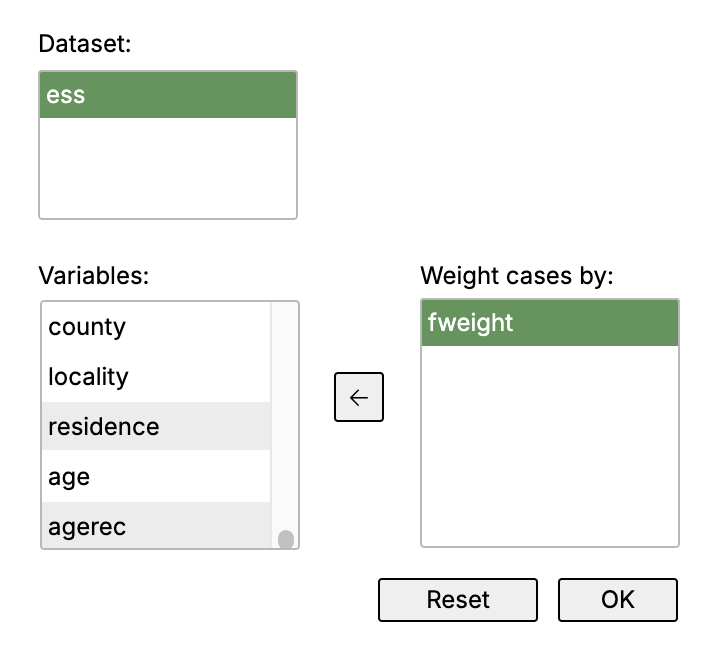
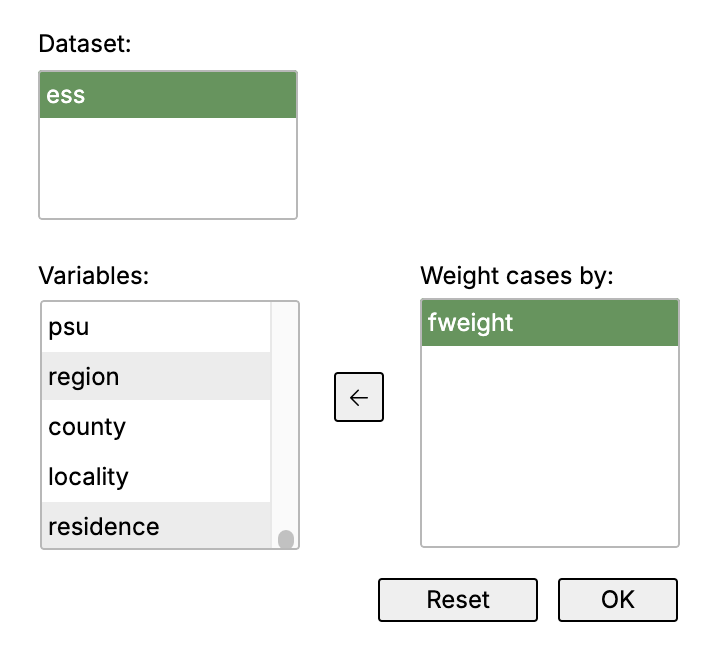
use canonical RODA ESS dataset in website examples

diff --git a/docs/usermanual.html b/docs/usermanual.html
@@ -49,7 +49,7 @@
         <figcaption><span>Figure 1</span> ESS political interest: the dataset and variable are selected, with Variable label enabled. Click Run. <a href="images/manual/frequencies.png" data-enlarge>Enlarge screenshot</a></figcaption>
     </figure>
 
-    <div class="callout"><p><strong>The dataset used in this guide.</strong> Screenshots use a prepared English-labelled <strong>European Social Survey Round 9 dataset for Romania</strong>, imported as <strong>ess</strong>. It contains 1,846 cases and 345 variables. The analysis variables retain their <strong>declared</strong> classes, labels, and missing-value definitions.</p><p>Use this prepared dataset if supplied with your course. You can also obtain data from the <a href="https://ess.sikt.no/">ESS Data Portal</a>; an original ESS download may have different variable names. The guide uses the prefixes in the prepared dataset, such as B1_polintr.</p></div><ol class="steps"><li><strong>Start DialogR.</strong> Complete <a href="#packages">desktop setup</a>, or wait for WebR to load.</li><li><strong>Choose File → Import data.</strong> Choose the European Social Survey Round 9 dataset for Romania, enter <strong>ess</strong> in <strong>Assign to</strong>, and click <strong>Import</strong>.</li><li><strong>Open the dataset editor.</strong> Explore the Data and Variables tabs. Keep the labels and missing-value definitions supplied with the file.</li><li><strong>Choose Analyze → Descriptive statistics → Frequency table.</strong> Select ess and <strong>B1_polintr</strong>, “How interested in politics”.</li><li><strong>Select Variable label and click Run.</strong> Leave Show values, Valid frequencies, and Observed only selected. No command needs to be typed.</li></ol>
+    <div class="callout"><p><strong>The dataset used in this guide.</strong> Screenshots use the English-labelled <a href="https://roda.ro/studies/roda-ess9?lang=en"><strong>European Social Survey, Round 9, Romania</strong></a> dataset from the RODA catalogue, imported as <strong>ess</strong>. It contains 1,846 cases and 343 variables. The analysis variables retain their <strong>declared</strong> classes, labels, and missing-value definitions.</p><p>Download <strong>roda-ess9-v1-en.rds</strong> from the catalogue record to follow the examples exactly. The broader <a href="https://ess.sikt.no/">ESS Data Portal</a> also provides ESS data, but another rendition may have different variable names.</p></div><ol class="steps"><li><strong>Start DialogR.</strong> Complete <a href="#packages">desktop setup</a>, or wait for WebR to load.</li><li><strong>Choose File → Import data.</strong> Choose <strong>roda-ess9-v1-en.rds</strong>, enter <strong>ess</strong> in <strong>Assign to</strong>, and click <strong>Import</strong>.</li><li><strong>Open the dataset editor.</strong> Explore the Data and Variables tabs. Keep the labels and missing-value definitions supplied with the file.</li><li><strong>Choose Analyze → Descriptive statistics → Frequency table.</strong> Select ess and <strong>B1_polintr</strong>, “How interested in politics”.</li><li><strong>Select Variable label and click Run.</strong> Leave Show values, Valid frequencies, and Observed only selected. No command needs to be typed.</li></ol>
     <div class="read-result"><h3>What to look for</h3><p>The four valid response categories contain 135, 380, 659, and 665 cases. Seven cases are labelled Refusal and treated as missing for the valid percentages. The overall total is 1,846; the valid total is 1,839. “Not at all interested” therefore represents 36.0% of all cases and 36.2% of valid responses.</p></div>
     <figure class="manual-figure" style="--screenshot-width: 437px">
         <a href="images/manual/frequencies-output.png" data-enlarge aria-label="Enlarge screenshot: Actual DialogR output: refusal remains visible as a distinct category, while valid percentages use only valid responses."><img src="images/manual/frequencies-output.png" width="874" height="480" loading="lazy" alt="Actual DialogR output: refusal remains visible as a distinct category, while valid percentages use only valid responses."></a>
@@ -66,7 +66,7 @@
         <figcaption><span>Figure 3</span> The ESS dataset in the Data editor. The bottom tabs switch between individual cases and variable definitions. <a href="images/manual/data-view.png" data-enlarge>Enlarge screenshot</a></figcaption>
     </figure>
 
-    <h3>Work with the data</h3><p>Open ess from the workspace. The Data tab shows one respondent per row and one variable per column. Check the dataset name and dimensions at the top. The original file contains 1,846 rows and 345 columns; use the scrollbars or <a href="#goto">Go to</a> to reach a particular variable.</p>
+    <h3>Work with the data</h3><p>Open ess from the workspace. The Data tab shows one respondent per row and one variable per column. Check the dataset name and dimensions at the top. The RODA file contains 1,846 rows and 343 columns; use the scrollbars or <a href="#goto">Go to</a> to reach a particular variable.</p>
 
     <h3>Review the variables</h3><p>Click <strong>Variables</strong>. Rows now describe variables. Find <strong>B1_polintr</strong> to see its descriptive label and value definitions. The <strong>Values</strong> cell opens the editor for category labels and missing values.</p><figure class="manual-figure" style="--screenshot-width: 900px">
         <a href="images/manual/variable-view.png" data-enlarge aria-label="Enlarge screenshot: Variable view keeps names, types, labels, and value definitions together."><img src="images/manual/variable-view.png" width="1800" height="1064" loading="lazy" alt="Variable view keeps names, types, labels, and value definitions together."></a>
@@ -140,16 +140,16 @@
     <p class="menu-path">File → Import data</p>
     <p>Bring in a dataset from SPSS, Stata, SAS, Excel, a text file, or an R dataset. Importing data does not import another program’s analyses or syntax.</p>
     <figure class="manual-figure" style="--screenshot-width: 585px">
-        <a href="images/manual/import.png" data-enlarge aria-label="Enlarge screenshot: Import the European Social Survey Round 9 dataset for Romania and assign it the name ess."><img src="images/manual/import.png" width="1170" height="820" loading="lazy" alt="Import the European Social Survey Round 9 dataset for Romania and assign it the name ess."></a>
-        <figcaption><span>Figure 8</span> Import the European Social Survey Round 9 dataset for Romania and assign it the name ess. <a href="images/manual/import.png" data-enlarge>Enlarge screenshot</a></figcaption>
+        <a href="images/manual/import.png" data-enlarge aria-label="Enlarge screenshot: Import roda-ess9-v1-en.rds from the RODA catalogue and assign it the name ess."><img src="images/manual/import.png" width="1170" height="820" loading="lazy" alt="Import roda-ess9-v1-en.rds from the RODA catalogue and assign it the name ess."></a>
+        <figcaption><span>Figure 8</span> Import roda-ess9-v1-en.rds from the RODA catalogue and assign it the name ess. <a href="images/manual/import.png" data-enlarge>Enlarge screenshot</a></figcaption>
     </figure>
-    <h3>To carry out this example</h3><ol class="steps"><li>Click <strong>Browse</strong> and choose the European Social Survey Round 9 dataset for Romania, or your own supported data file.</li>
+    <h3>To carry out this example</h3><ol class="steps"><li>Click <strong>Browse</strong> and choose <strong>roda-ess9-v1-en.rds</strong>, or your own supported data file.</li>
 <li>Enter <strong>ess</strong> under Assign to for this example.</li>
-<li>For a text file, check separator, decimal mark, header, missing-value marker, quotes, and encoding. These parsing controls are not needed for the prepared R dataset.</li>
+<li>For a text file, check separator, decimal mark, header, missing-value marker, quotes, and encoding. These parsing controls are not needed for the RODA R dataset.</li>
 <li>Click <strong>Import</strong>. Open the dataset and review variable labels, value labels, and missing-value definitions in Variables view.</li></ol>
-    <h3>Supported files</h3><div class="table-scroll"><table><thead><tr><th>Source</th><th>File types</th></tr></thead><tbody><tr><td>SPSS</td><td>.sav, .zsav, .por</td></tr><tr><td>Stata</td><td>.dta</td></tr><tr><td>SAS</td><td>.sas7bdat, .xpt</td></tr><tr><td>Excel</td><td>.xls, .xlsx</td></tr><tr><td>Delimited text</td><td>.csv, .txt, .tsv, .tab, .dat</td></tr><tr><td>R dataset</td><td>.rds</td></tr></tbody></table></div>
+    <div class="callout"><p><strong>One study, several formats.</strong> The <a href="https://roda.ro/studies/roda-ess9?lang=en">RODA catalogue record</a> offers this dataset as SPSS, Stata, SAS Transport, R, and Excel files. This guide uses the English R file, <strong>roda-ess9-v1-en.rds</strong>.</p></div><h3>Supported files</h3><div class="table-scroll"><table><thead><tr><th>Source</th><th>File types</th></tr></thead><tbody><tr><td>SPSS</td><td>.sav, .zsav, .por</td></tr><tr><td>Stata</td><td>.dta</td></tr><tr><td>SAS</td><td>.sas7bdat, .xpt</td></tr><tr><td>Excel</td><td>.xls, .xlsx</td></tr><tr><td>Delimited text</td><td>.csv, .txt, .tsv, .tab, .dat</td></tr><tr><td>R dataset</td><td>.rds</td></tr></tbody></table></div>
             <h3>Prepare an Excel worksheet</h3><p>Put a single rectangular table on the first sheet. The first row should contain unique variable names, with one variable per column and one case per following row. Remove title rows, merged cells, subtotals, and blank rows within the table. Use consistent types of values in each column.</p><p>The dialog does not offer a sheet selector. Move the intended table to the first sheet, or save it as CSV. Optional DDIwR metadata sheets are described in the <a href="commands.html#excel-metadata">advanced import reference</a>.</p><h3>Check the import</h3><p>If text data appears in one column, check the separator. If accents look wrong, check the encoding. A value such as 99 is not automatically missing: check the file’s missing-value definitions.</p><p>In WebR, choose the file through the browser’s file picker. Save the files and results you need before closing the session.</p>
-    <div class="read-result"><h3>What to look for</h3><p>The prepared ESS dataset appears as ess with 1,846 cases and 345 variables. Its declared variables retain the supplied labels and missing-value definitions. A CSV import cannot supply metadata that was not stored in the file.</p></div>
+    <div class="read-result"><h3>What to look for</h3><p>The RODA dataset appears as ess with 1,846 cases and 343 variables. Its declared variables retain the supplied labels and missing-value definitions. A CSV import cannot supply metadata that was not stored in the file.</p></div>
 
 </section>
 
@@ -220,8 +220,8 @@
     <p class="menu-path">Data → Apply frequency weighting</p>
     <p>Use a frequency variable when cases represent different numbers of occurrences. The supplied ESS teaching dataset includes a variable named fweight, labelled Frequency weight.</p>
     <figure class="manual-figure" style="--screenshot-width: 360px">
-        <a href="images/manual/weightby.png" data-enlarge aria-label="Enlarge screenshot: The selected weight is fweight from the prepared ESS dataset."><img src="images/manual/weightby.png" width="720" height="650" loading="lazy" alt="The selected weight is fweight from the prepared ESS dataset."></a>
-        <figcaption><span>Figure 12</span> The selected weight is fweight from the prepared ESS dataset. <a href="images/manual/weightby.png" data-enlarge>Enlarge screenshot</a></figcaption>
+        <a href="images/manual/weightby.png" data-enlarge aria-label="Enlarge screenshot: The selected weight is fweight from the RODA ESS dataset."><img src="images/manual/weightby.png" width="720" height="650" loading="lazy" alt="The selected weight is fweight from the RODA ESS dataset."></a>
+        <figcaption><span>Figure 12</span> The selected weight is fweight from the RODA ESS dataset. <a href="images/manual/weightby.png" data-enlarge>Enlarge screenshot</a></figcaption>
     </figure>
     <h3>To carry out this example</h3><ol class="steps"><li>Select <strong>ess</strong>.</li>
 <li>Move <strong>fweight</strong> into Weight cases by using the arrow.</li>
@@ -421,7 +421,7 @@
     <p>Start with the dialog’s message and the dataset settings. Most unexpected results can be traced to an input choice, missing value, or active filter, group, or weight.</p>
 
 
-    <h3>A dialog cannot run</h3><p>Wait for the runtime to finish starting. Select a dataset and all required variables. If a package is missing or outdated, follow <a href="#packages">Set up DialogR</a>.</p><h3>Results differ from the example</h3><p>Use the prepared European Social Survey Round 9 dataset for Romania, then check the <a href="#dataset-state">filter, grouping, and weight settings</a>. Check declared missing-value definitions and confirm that you chose the same variable and did not change the original data.</p><h3>A variable is missing</h3><p>Select the correct dataset. A subset may have excluded the column you need. Check its name and type in the Variables view.</p><h3>WebR is slow</h3><p>Allow the browser runtime and package library to finish loading. WebR can use the same dataset as desktop DialogR; loading, importing, and analysing it will simply take longer. Use desktop DialogR when you prefer faster repeated work.</p><h3>Keep the original data</h3><p>Keep a copy of your input file. Use new-dataset and new-variable options for transformations when you want to preserve the originals. Save datasets or the workspace explicitly; do not rely on an open browser tab.</p><p>You may also keep generated commands in a script to repeat your work later. A script records instructions, not a copy of every dataset. For a reproducible problem, <a href="https://github.com/RODA/DialogR/issues">report an issue</a> with the dialog name, version, exact message, and a small non-confidential example.</p>
+    <h3>A dialog cannot run</h3><p>Wait for the runtime to finish starting. Select a dataset and all required variables. If a package is missing or outdated, follow <a href="#packages">Set up DialogR</a>.</p><h3>Results differ from the example</h3><p>Use <strong>roda-ess9-v1-en.rds</strong> from the <a href="https://roda.ro/studies/roda-ess9?lang=en">RODA catalogue record</a>, then check the <a href="#dataset-state">filter, grouping, and weight settings</a>. Check declared missing-value definitions and confirm that you chose the same variable and did not change the original data.</p><h3>A variable is missing</h3><p>Select the correct dataset. A subset may have excluded the column you need. Check its name and type in the Variables view.</p><h3>WebR is slow</h3><p>Allow the browser runtime and package library to finish loading. WebR can use the same dataset as desktop DialogR; loading, importing, and analysing it will simply take longer. Use desktop DialogR when you prefer faster repeated work.</p><h3>Keep the original data</h3><p>Keep a copy of your input file. Use new-dataset and new-variable options for transformations when you want to preserve the originals. Save datasets or the workspace explicitly; do not rely on an open browser tab.</p><p>You may also keep generated commands in a script to repeat your work later. A script records instructions, not a copy of every dataset. For a reproducible problem, <a href="https://github.com/RODA/DialogR/issues">report an issue</a> with the dialog name, version, exact message, and a small non-confidential example.</p>
 
 
 </section></div></div>

diff --git a/docs/index.html b/docs/index.html
@@ -2,11 +2,11 @@
 <html lang="en"><head><meta charset="utf-8"><meta name="viewport" content="width=device-width, initial-scale=1"><title>Data analysis. No R knowledge required. — DialogR</title><meta name="description" content="Analyse data without knowing R. DialogR builds the commands for you, with SPSS-style data and variable views, menus, and dialogs."><meta name="theme-color" content="#faf9f6"><meta property="og:title" content="Data analysis. No R knowledge required. — DialogR"><meta property="og:description" content="Analyse data without knowing R. DialogR builds the commands for you, with SPSS-style data and variable views, menus, and dialogs."><meta property="og:type" content="website"><link rel="icon" href="images/dialogr.svg" type="image/svg+xml"><link rel="stylesheet" href="css/site.css"><script src="scripts/site.js" defer></script></head>
 <body><a class="skip" href="#main">Skip to content</a><header class="wrap"><a class="brand" href="index.html"><img src="images/dialogr.svg" alt="" width="34" height="34">DialogR</a><nav aria-label="Main navigation"><a href="index.html" aria-current="page">Overview</a><a href="usermanual.html">User manual</a><a href="download.html">Get DialogR</a></nav></header>
 <main id="main"><section class="hero wrap"><div><p class="eyebrow">R analysis. No programming required.</p><h1>Analyse your data.<br><em>No R skills needed.</em></h1><p class="lead">You choose the analysis. DialogR writes the R command for you. Work through familiar menus and dialogs, select your variables, and run your analysis — no R knowledge needed.</p><div class="actions"><a class="button primary" href="download.html">Get DialogR <span aria-hidden="true">&nbsp;↗</span></a><a class="button" href="usermanual.html#getting-started">Follow the first steps</a></div><p class="small">Coming from SPSS? Feel at home with data and variable views, menus, and dialogs.</p></div>
-<div class="demo"><div class="demo-top"><span>CHOOSE YOUR ANALYSIS</span><span>ESS / POLITICAL INTEREST</span></div><div class="demo-body"><h3>You choose. DialogR does the rest.</h3><p class="small">Select your dataset and variable, then click Run. This is the actual Frequency table dialog.</p><a href="usermanual.html#frequencies"><img class="hero-dialog" src="images/manual/frequencies.png" width="680" height="520" alt="DialogR Frequency table with ess and B1_polintr selected and the Variable label option enabled."></a><p class="small">Real ESS data, with its labels and declared missing values intact.</p><a href="usermanual.html#getting-started">Follow the illustrated walkthrough →</a></div></div></section>
+<div class="demo"><div class="demo-top"><span>CHOOSE YOUR ANALYSIS</span><span>ESS / POLITICAL INTEREST</span></div><div class="demo-body"><h3>You choose. DialogR does the rest.</h3><p class="small">Select your dataset and variable, then click Run. This is the actual Frequency table dialog.</p><a href="usermanual.html#frequencies"><img class="hero-dialog" src="images/manual/frequencies.png" width="680" height="520" alt="DialogR Frequency table with ess and B1_polintr selected and the Variable label option enabled."></a><p class="small">Real data from <a href="https://roda.ro/studies/roda-ess9?lang=en">European Social Survey, Round 9, Romania in the RODA catalogue</a>, with its labels and declared missing values intact.</p><a href="usermanual.html#getting-started">Follow the illustrated walkthrough →</a></div></div></section>
 <div class="strip"><div class="wrap"><span class="eyebrow">Bring the data you already have</span><span class="formats">SPSS Stata SAS Excel CSV R</span><a href="usermanual.html#import">Import guide →</a></div></div>
 <section class="section wrap" id="from-spss"><p class="eyebrow">From SPSS to R</p><h2>A familiar way to work.<br>A fresh way into R.</h2><p class="lead">If you know your way around SPSS, you already know the idea: browse your data, define your variables, choose a menu, and fill in a dialog. DialogR brings that familiar workflow to R.</p><div class="grid"><article class="card"><span class="eyebrow">The data editor</span><h3>Cases and variables, side by side.</h3><p>Work with rows and columns in the Data view. Switch to Variables to inspect and edit names, types, labels, and other variable properties.</p><a href="usermanual.html#from-spss">Get to know the editor →</a></article><article class="card"><span class="eyebrow">Menus and dialogs</span><h3>Your choices become the code.</h3><p>Find a procedure in Data, Transform, or Analyze. Select the variables and options you need; DialogR takes care of constructing the command.</p><a href="usermanual.html#dialog-reference">Browse the available dialogs →</a></article><article class="card"><span class="eyebrow">Across platforms</span><h3>A modern interface for R.</h3><p>Use DialogR on macOS, Windows, or Linux, or start with WebR in your browser. A responsive interface brings the dialog-driven workflow across these environments.</p><a href="download.html">Choose your version →</a></article></div></section>
 <section class="section wrap"><p class="eyebrow">A clear path from data to insight</p><h2>Choose. Click. Analyse.</h2><div class="grid"><article class="card"><span class="eyebrow">01 / Bring your data</span><h3>A familiar place to begin.</h3><p>Open your SPSS, Stata, SAS, or Excel data. Browse cases in the data view and review their definitions in the variable view.</p><a href="usermanual.html#import">Meet the import tools →</a></article><article class="card"><span class="eyebrow">02 / Make your choices</span><h3>Let the dialog guide you.</h3><p>Choose an analysis from the menus, select variables, and set your options. The dialog constructs the R command automatically.</p><a href="usermanual.html#dialog-reference">Find your analysis →</a></article><article class="card"><span class="eyebrow">03 / Run your analysis</span><h3>Get results. Learn at your pace.</h3><p>Run the analysis without writing code. If you want to learn R, the generated command is there to explore, save, and reuse.</p><a href="usermanual.html#commands">Explore the generated commands →</a></article></div></section>
 <section class="tint"><div class="section wrap split"><div><p class="eyebrow">Built around real research data</p><h2>A new interface.<br>A familiar dataset.</h2><p>Move into R with data from SPSS, Stata, or SAS. DialogR uses DDIwR for these imports and the declared package for working with labelled data and declared missing values.</p><p>Excel works too: use one rectangular data table, one variable per column, and one case per row. The manual explains the layout and optional metadata sheets.</p><a href="usermanual.html#import">Prepare your first import →</a></div><div><p class="eyebrow">A useful starting toolkit</p><h3>Prepare your data</h3><p>Sort cases, select subsets, recode values, set grouping, and apply frequency weights.</p><h3>Explore and compare</h3><p>Frequency and contingency tables, numerical summaries, one-sample and independent-samples t-tests, and one-way ANOVA.</p><a href="usermanual.html#dialog-reference">Read the guide to every dialog →</a></div></div></section>
-<section class="section wrap split" id="declared-data"><div><p class="eyebrow">More than numbers in cells</p><h2>Keep what your<br>data means.</h2><p>Multiple missing values. Their meaning preserved. DialogR uses the <a href="https://CRAN.R-project.org/package=declared"><strong>declared R package</strong></a> to distinguish “refusal”, “don’t know”, and “not applicable” — instead of losing their meaning in a single undifferentiated missing value. Each can keep its own code and label while being treated as missing in supported analyses.</p><p>View and edit those definitions in the familiar variable editor. Frequency tables can show the missing categories, while valid percentages and numerical summaries exclude responses declared missing.</p><p>In the ESS example, seven refusals remain visible in the political-interest table. They are excluded from its valid percentages — automatically, because their meaning is part of the variable.</p><a href="usermanual.html#declared-values">See labels and missing values in action →</a></div><figure class="manual-figure"><a href="usermanual.html#declared-values"><img src="images/manual/declared-missing.png" width="1180" height="860" loading="lazy" alt="ESS political-interest value labels, with Refusal, Don’t know, and No answer marked as missing."></a><figcaption>Actual ESS variable definitions in DialogR.</figcaption></figure></section><section class="section wrap"><p class="eyebrow">Choose how you work</p><h2>At your desk. In your browser.</h2><div class="download-grid"><article class="card"><span class="eyebrow">Desktop</span><h3>Local R. More speed.</h3><p>DialogR is a graphical layer on top of R. Install R first, then install DialogR for regular analysis on your computer.</p><p><strong>You are responsible for installing R and the necessary R packages.</strong> Installing DialogR alone does not complete desktop setup. The Packages menu helps you install and update the packages.</p><a class="button primary" href="download.html#desktop">Desktop setup →</a></article><article class="card"><span class="eyebrow">WebR</span><h3>Everything ready to start.</h3><p>Use R in your browser with the R runtime and packages needed by DialogR already included. No local R or package installation is needed.</p><p><strong>WebR is slower than local R.</strong> It can use the same dataset; allow extra time for startup, imports, and analysis.</p><a class="button" href="https://webr.adriandusa.com/dialogr">Open DialogR in the browser ↗</a></article></div></section>
+<section class="section wrap split" id="declared-data"><div><p class="eyebrow">More than numbers in cells</p><h2>Keep what your<br>data means.</h2><p>Multiple missing values. Their meaning preserved. DialogR uses the <a href="https://CRAN.R-project.org/package=declared"><strong>declared R package</strong></a> to distinguish “refusal”, “don’t know”, and “not applicable” — instead of losing their meaning in a single undifferentiated missing value. Each can keep its own code and label while being treated as missing in supported analyses.</p><p>View and edit those definitions in the familiar variable editor. Frequency tables can show the missing categories, while valid percentages and numerical summaries exclude responses declared missing.</p><p>In the <a href="https://roda.ro/studies/roda-ess9?lang=en">European Social Survey, Round 9, Romania</a> example from the RODA catalogue, seven refusals remain visible in the political-interest table. They are excluded from its valid percentages — automatically, because their meaning is part of the variable.</p><a href="usermanual.html#declared-values">See labels and missing values in action →</a></div><figure class="manual-figure"><a href="usermanual.html#declared-values"><img src="images/manual/declared-missing.png" width="1180" height="860" loading="lazy" alt="ESS political-interest value labels, with Refusal, Don’t know, and No answer marked as missing."></a><figcaption>Actual ESS variable definitions in DialogR.</figcaption></figure></section><section class="section wrap"><p class="eyebrow">Choose how you work</p><h2>At your desk. In your browser.</h2><div class="download-grid"><article class="card"><span class="eyebrow">Desktop</span><h3>Local R. More speed.</h3><p>DialogR is a graphical layer on top of R. Install R first, then install DialogR for regular analysis on your computer.</p><p><strong>You are responsible for installing R and the necessary R packages.</strong> Installing DialogR alone does not complete desktop setup. The Packages menu helps you install and update the packages.</p><a class="button primary" href="download.html#desktop">Desktop setup →</a></article><article class="card"><span class="eyebrow">WebR</span><h3>Everything ready to start.</h3><p>Use R in your browser with the R runtime and packages needed by DialogR already included. No local R or package installation is needed.</p><p><strong>WebR is slower than local R.</strong> It can use the same dataset; allow extra time for startup, imports, and analysis.</p><a class="button" href="https://webr.adriandusa.com/dialogr">Open DialogR in the browser ↗</a></article></div></section>
 <section class="tint" id="languages"><div class="section wrap split"><div><p class="eyebrow">One interface. Seven languages.</p><h2>Choose your language.<br>Keep working.</h2><p>Use DialogR in English, German, Greek, Spanish, French, Polish, or Romanian.</p><p>Choose a language under <strong>Settings → General</strong>. Menus, editors, and every open dialog refresh immediately after you save — no restart required.</p><a href="usermanual.html#languages">See how language switching works →</a></div><div class="language-panel"><p class="eyebrow">Available now</p><ul class="language-list" aria-label="Available DialogR interface languages"><li lang="en">English</li><li lang="de">Deutsch</li><li lang="el">Ελληνικά</li><li lang="es">Español</li><li lang="fr">Français</li><li lang="pl">Polski</li><li lang="ro">Română</li></ul></div></div></section>
 <section class="tint"><div class="section wrap split"><div><p class="eyebrow">The user manual</p><h2>Understand every choice.</h2><p>Follow actual screenshots of the data editor and each dialog, with numbered steps and explanations of the results. Learn with real ESS data and its declared missing values.</p></div><div><h3>Your next step</h3><p><a href="usermanual.html#getting-started">A first analysis, step by step →</a></p><p><a href="usermanual.html#packages">R packages and installation →</a></p><p><a href="usermanual.html#commands">Reading and reusing commands →</a></p></div></div></section></main><footer class="wrap"><div><a class="brand" href="index.html">DialogR</a><p class="small">By Adrian Dusa · Part of the <a href="https://www.roda.ro/">RODA</a> tools for research.</p></div><nav aria-label="Project links"><a href="https://github.com/RODA/DialogR">Source code</a><a href="https://github.com/RODA/DialogR/issues">Report an issue</a><a href="https://roda.github.io/DialogCreator/">DialogCreator ↗</a><a href="https://github.com/RODA/DialogR/blob/main/LICENSE">License</a></nav></footer></body></html>

diff --git a/docs/website.md b/docs/website.md
@@ -29,16 +29,18 @@ Edit `scripts/manual/chapters.cjs`, then run
 `node scripts/manual/build-html.js` to regenerate the manual and optional R
 reference. Serving the generated website requires no build or dependencies.
 
-The illustrated examples use a locally prepared European Social Survey Round 9
-dataset for Romania, with 1,846 cases and 345 variables. Analysis variables
-keep their `declared` classes, value labels, and missing definitions. The source
-dataset is not redistributed with this site. Set `DIALOGR_MANUAL_DATA` to its
-local path when recapturing. Examples are informed by the accompanying
-descriptive and inferential teaching scripts.
+The illustrated examples use the English R rendition of
+[European Social Survey, Round 9, Romania](https://roda.ro/studies/roda-ess9?lang=en)
+from the RODA catalogue. The downloaded file is `roda-ess9-v1-en.rds`, with
+1,846 cases and 343 source variables. Analysis variables keep their `declared`
+classes, value labels, and missing definitions. The source dataset is not
+redistributed with this site. Set `DIALOGR_MANUAL_DATA` to its local path when
+recapturing. Examples are informed by the accompanying descriptive and
+inferential teaching scripts.
 
 `scripts/manual/capture-screenshots.cjs` captures an isolated instance of the
 real Electron application using the sibling DialogForge Playwright/Electron
-installation. It imports the prepared ESS file, captures dialog choices and
+installation. It imports the RODA ESS file, captures dialog choices and
 the missing-value editor, and runs six unweighted analyses for result captures.
 See `scripts/manual/capture-notes.json` for captured controls and output.
 Regenerate the HTML after recapturing images so image dimensions stay current.
